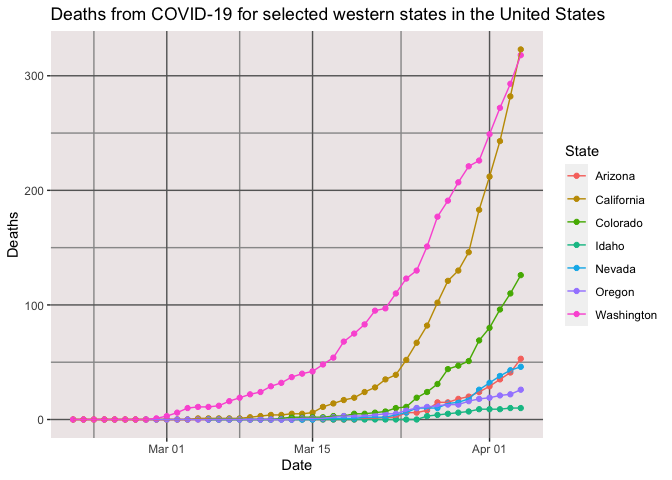
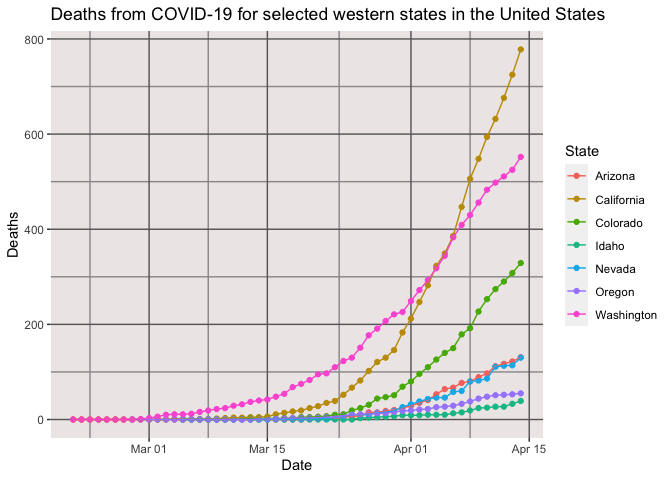
Data thru 2020-04-14

Changed region(s): [[0.0312, 0.0625, 0.8125, 0.9688]]

diff --git a/vignettes/covid19_deaths_by_state.md b/vignettes/covid19_deaths_by_state.md
@@ -1,7 +1,7 @@
 COVID-19 Deaths by State
 ================
 [Jim Tyhurst, Ph.D.](https://www.jimtyhurst.com/)
-2020-04-05
+2020-04-15
 
   - [Read data](#read-data)
   - [Cases by state](#cases-by-state)
@@ -38,11 +38,17 @@ select states.
 Plot of percentage of deaths per state, calculated as (deaths / cases)
 \* 100.
 
+    #> Warning: Removed 1 rows containing missing values
+    #> (position_stack).
+
 ![](covid19_deaths_by_state_files/figure-gfm/mortality_by_state-1.png)<!-- -->
 
 ## Distribution of mortality rates
 
 Plot of mortality rates across states, i.e. percentage of deaths for
 confirmed cases, in the United States.
+
+    #> Warning: Removed 1 rows containing non-finite values
+    #> (stat_count).
 
 ![](covid19_deaths_by_state_files/figure-gfm/mortality_distribution-1.png)<!-- -->

diff --git a/README.md b/README.md
@@ -23,11 +23,13 @@ This `covid19` package provides an [R](https://www.r-project.org/) API for acces
 
 ## Installation
 
-There are no plans to created a release version. Install the _development_ version of `covid19` from [GitHub](https://github.com/) with:
+Install the _development_ version of `covid19` from [GitHub](https://github.com/) with:
 
 ``` r
 remotes::install_github("jimtyhurst/covid19")
 ```
+
+There are no plans to created a released version on [CRAN](https://cran.r-project.org/) or any other repository of published packages. 
 
 ## Example for NY Times data
 

diff --git a/vignettes/covid19_confirmed_cases.md b/vignettes/covid19_confirmed_cases.md
@@ -1,7 +1,7 @@
 COVID-19 Confirmed Cases
 ================
 [Jim Tyhurst, Ph.D.](https://www.jimtyhurst.com/)
-2020-04-05
+2020-04-15
 
   - [tl;dr](#tldr)
 

diff --git a/vignettes/covid19_deaths.md b/vignettes/covid19_deaths.md
@@ -1,7 +1,7 @@
 COVID-19 Deaths
 ================
 [Jim Tyhurst, Ph.D.](https://www.jimtyhurst.com/)
-2020-04-05
+2020-04-15
 
   - [tl;dr](#tldr)
 
